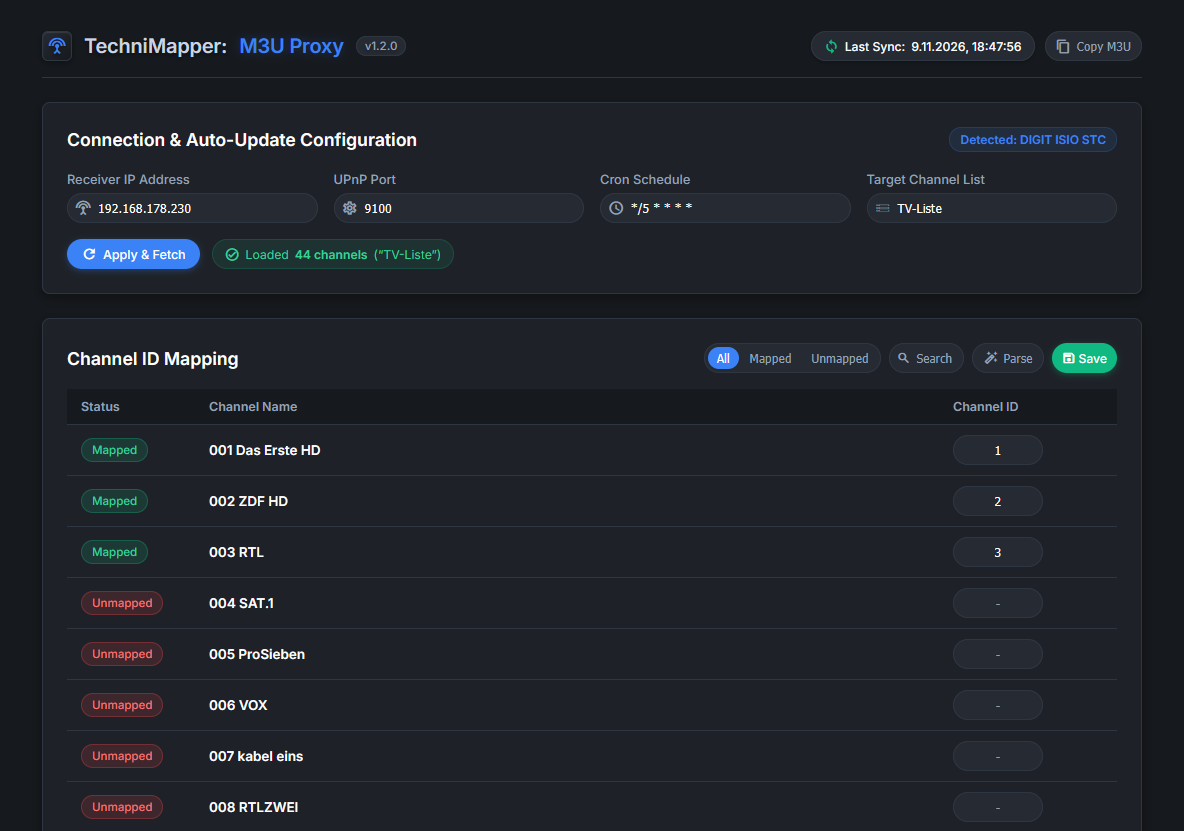
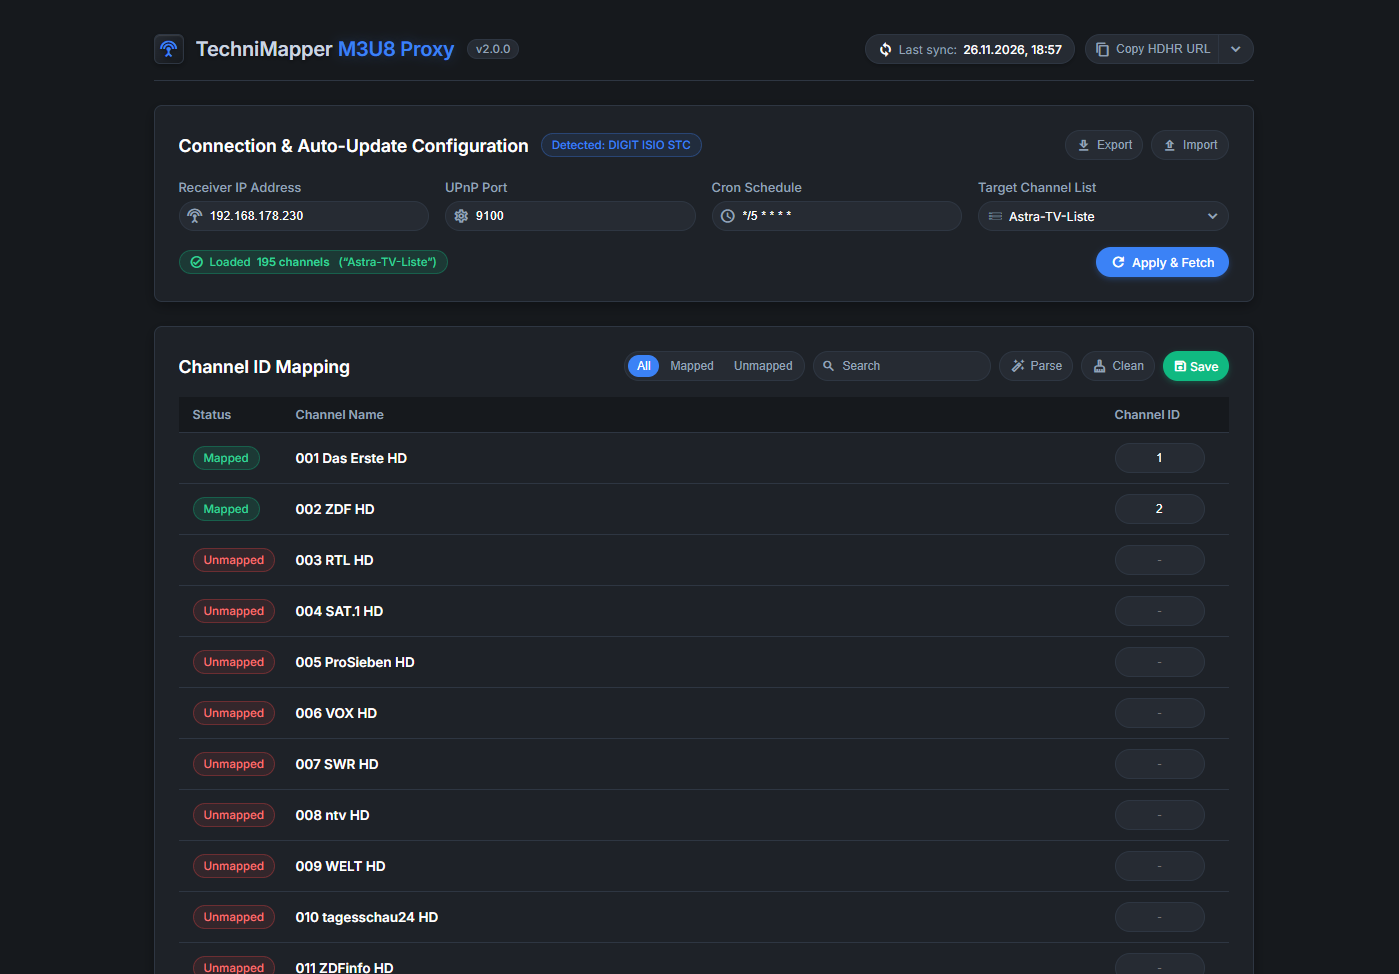
docs: align README, OpenAPI spec and ADRs with 2.0.0

diff --git a/frontend/api.generated.d.ts b/frontend/api.generated.d.ts
@@ -903,42 +903,6 @@ export interface paths {
         patch?: never;
         trace?: never;
     };
-    "/api/docs": {
-        parameters: {
-            query?: never;
-            header?: never;
-            path?: never;
-            cookie?: never;
-        };
-        /** Interactive API documentation (Redoc) */
-        get: {
-            parameters: {
-                query?: never;
-                header?: never;
-                path?: never;
-                cookie?: never;
-            };
-            requestBody?: never;
-            responses: {
-                /** @description HTML page with Redoc UI */
-                200: {
-                    headers: {
-                        [name: string]: unknown;
-                    };
-                    content: {
-                        "text/html": string;
-                    };
-                };
-            };
-        };
-        put?: never;
-        post?: never;
-        delete?: never;
-        options?: never;
-        head?: never;
-        patch?: never;
-        trace?: never;
-    };
 }
 export type webhooks = Record<string, never>;
 export interface components {

diff --git a/test/openapi.test.ts b/test/openapi.test.ts
@@ -38,7 +38,7 @@ const ROUTES_DIR = path.join(root, 'lib', 'routes');
 const SERVER_SRC = fs.readFileSync(path.join(root, 'server.ts'), 'utf8');
 
 test('every route registered in lib/routes or server.ts exists in docs/openapi.yaml', () => {
-    const specRoutes = Object.keys(openapi.paths).filter((p) => !p.startsWith('/api/docs'));
+    const specRoutes = Object.keys(openapi.paths);
     for (const file of fs.readdirSync(ROUTES_DIR)) {
         if (!file.endsWith('.ts')) continue;
         const src = fs.readFileSync(path.join(ROUTES_DIR, file), 'utf8');
@@ -46,8 +46,7 @@ test('every route registered in lib/routes or server.ts exists in docs/openapi.y
             assert.ok(specRoutes.includes(route), `${file}: ${route} missing in openapi.yaml`);
         }
     }
-    // app.use('/hdhr', hdhrRouter) is covered by the hdhrRouter.* registrations above;
-    // /api/docs is documented separately (interactive viewer).
+    // app.use('/hdhr', hdhrRouter) is covered by the hdhrRouter.* registrations above.
 });
 
 test('openapi.yaml statuses match the statuses we assert in app.test.ts', () => {

diff --git a/scripts/coverage.js b/scripts/coverage.js
@@ -17,6 +17,7 @@ const result = spawnSync(
         '--test-coverage-exclude=e2e/**',
         '--test-coverage-exclude=public/**',
         '--test-coverage-exclude=frontend/**',
+        '--test-coverage-exclude=dist/**',
     ],
     {
         stdio: ['ignore', 'pipe', 'pipe'],
@@ -48,7 +49,7 @@ if (!match) {
 }
 
 // Per-module advisory: list lib files below 90% line coverage (non-fatal).
-const fileLines = plain.matchAll(/^ℹ\s+(\S+\.js)\s*\|\s*([\d.]+)\s*\|\s*([\d.]+)\s*\|\s*([\d.]+)/gm);
+const fileLines = plain.matchAll(/^ℹ\s+(\S+\.(?:js|ts))\s*\|\s*([\d.]+)\s*\|\s*([\d.]+)\s*\|\s*([\d.]+)/gm);
 const weak = [];
 for (const m of fileLines) {
     const file = m[1];

diff --git a/README.md b/README.md
@@ -82,7 +82,7 @@ volumes:
     technimapper-data:
 ```
 
-`latest` always points to the newest stable release (pre-releases such as `1.8.0-rc.1` never move `latest`, `1` or `1.7`; use their exact tag to test them). If you need reproducible deployments, pin a version tag instead, e.g. `ghcr.io/danielfranze/technimapper-m3u-proxy:1.7.0`.
+`latest` always points to the newest stable release (pre-releases such as `2.0.0-rc.6` never move `latest`, `2` or `2.0`; use their exact tag to test them). If you need reproducible deployments, pin a version tag instead, e.g. `ghcr.io/danielfranze/technimapper-m3u-proxy:2.0.0`.
 
 The repository also ships a ready-to-use `docker-compose.yml` (builds locally with `build: .`).
 
@@ -140,7 +140,7 @@ Everything related to the receiver (IP, port, cron schedule, channel list, mappi
 | `DATA_DIR`                      | `/app/data` | Directory for `mapping.json`. Must be writable.                                                                                                                                                                  |
 | `REQUEST_TIMEOUT_MS`            | `5000`      | Idle timeout per UPnP request (hard deadline: 3×).                                                                                                                                                               |
 | `MAX_RESPONSE_BYTES`            | `2097152`   | Maximum accepted UPnP response size (2 MiB).                                                                                                                                                                     |
-| `SHUTDOWN_TIMEOUT_MS`           | `30000`     | Hard deadline for graceful shutdown; always at least 3× `REQUEST_TIMEOUT_MS` + 5 s.                                                                                                                              |
+| `SHUTDOWN_TIMEOUT_MS`           | `30000`     | Hard deadline for graceful shutdown; always at least 3× `REQUEST_TIMEOUT_MS` + 1 s.                                                                                                                              |
 | `ALLOW_NON_PRIVATE_IP`          | `false`     | Allow receiver IPs outside RFC1918 (VPN/CGNAT). Loopback and link-local stay blocked.                                                                                                                            |
 | `ALLOW_LOOPBACK_RECEIVER`       | `false`     | Allow a receiver on `127.0.0.1` for local mock testing. Keep disabled in production.                                                                                                                             |
 | `ADMIN_USER` / `ADMIN_PASSWORD` | –           | Enables HTTP Basic Auth for the UI and `/api/*`. Set both; if only one is set, protected routes fail closed with `503`.                                                                                          |
@@ -170,7 +170,8 @@ Everything related to the receiver (IP, port, cron schedule, channel list, mappi
 | `POST /api/save-mapping`                                                                       | Basic Auth¹ | Saves the channel-name → ID mapping.                                                                   |
 | `GET /api/export-config` / `POST /api/import-config`                                           | Basic Auth¹ | Backup and restore of settings and mapping.                                                            |
 | `GET /metrics`                                                                                 | Basic Auth¹ | Prometheus text metrics (`technimapper_*`).                                                            |
-| `GET /api/docs`                                                                                | Basic Auth¹ | Interactive API documentation (Redoc); full spec: [docs/openapi.yaml](docs/openapi.yaml).              |
+
+The full OpenAPI 3 specification is available at [docs/openapi.yaml](docs/openapi.yaml).
 
 ¹ Only enforced if `ADMIN_USER` and `ADMIN_PASSWORD` are set. State-changing `/api/*` requests must use `Content-Type: application/json` and a same-origin `Origin`/`Referer` (when the client sends one); cross-origin attempts are rejected.
 
@@ -286,11 +287,12 @@ npm start              # http://localhost:9191
 
 | Script                                  | Purpose                                                                                                                                               |
 | --------------------------------------- | ----------------------------------------------------------------------------------------------------------------------------------------------------- |
-| `npm run coverage`                      | Backend with V8 coverage, thresholds: lines ≥90 %, branches ≥80 %, functions ≥85 % (`public/` excluded – frontend is reachable without backend build) |
+| `npm run coverage`                      | Backend with V8 coverage, thresholds: lines ≥90 %, branches ≥80 %, functions ≥85 % (generated `dist/`, `public/` and `frontend/` excluded)          |
 | `scripts/probe-receiver.js <ip> [port]` | Inspects a receiver's UPnP/ContentDirectory structure and prints the detected model                                                                   |
+| `scripts/probe-count.js <ip> …`         | Probes a single object with a custom `RequestedCount` (see [scripts/README.md](scripts/README.md))                                                   |
 | `scripts/mock-receiver.js`              | Minimal SOAP mock for manual testing (set `MOCK_RECEIVER_PORT`)                                                                                       |
 
-CI (GitHub Actions) runs type checks, Biome, knip, OpenAPI freshness, unit/integration tests, coverage, `npm audit`, a Trivy image scan and a container smoke test on every push and pull request. Pushing a tag `vX.Y.Z` (matching `package.json`) builds, publishes and signs the release image and creates the GitHub release from the matching `CHANGELOG.md` section (`## [X.Y.Z]`). The tag fails fast if the version or the changelog entry is missing; tags containing a `-` (e.g. `v1.8.0-rc.1`) become pre-releases and do not move the `latest` image tag.
+CI (GitHub Actions) runs type checks, Biome, knip, OpenAPI freshness, unit/integration tests, coverage, `npm audit`, a Trivy image scan and a container smoke test on every push and pull request. Pushing a tag `vX.Y.Z` (matching `package.json`) builds, publishes and signs the release image and creates the GitHub release from the matching `CHANGELOG.md` section (`## [X.Y.Z]`). The tag fails fast if the version or the changelog entry is missing; tags containing a `-` (e.g. `v2.0.0-rc.6`) become pre-releases and do not move the `latest` image tag.
 
 ## Third-party fonts
 

diff --git a/CHANGELOG.md b/CHANGELOG.md
@@ -22,7 +22,7 @@ TechniMapper 2.0 is a modernization release. The feature set is unchanged; the b
 - Docker image builds the frontend in the builder stage and copies the generated assets into the runtime image; release builds bypass the layer cache.
 - CI and release workflows run type checks, Biome, knip, OpenAPI freshness, tests, coverage, E2E, dependency audit and a container smoke test/Trivy scan.
 - Build output (`dist/`, `public/app/js/`) is generated and no longer tracked; `npm run build` starts from a clean state.
-- Tests and test helpers import the TypeScript sources directly (`tsx`) instead of compiled `dist/` output, so knip validates the real source graph without a prior build.
+- Tests and test helpers import the TypeScript sources directly (`tsx`) instead of compiled `dist/` output, so knip validates the real source graph without a prior build; coverage excludes generated `dist/` accordingly.
 - `LOG_FORMAT` defaults to `text` (as documented); set `LOG_FORMAT=json` for structured logs.
 - `GET /api/get-config` was renamed to `GET /api/config` (UI and tests updated).
 
@@ -32,6 +32,7 @@ TechniMapper 2.0 is a modernization release. The feature set is unchanged; the b
 - Frontend race conditions: config and sync state are awaited, sync requests are single-flight, and file import errors are surfaced.
 - UI XSS and M3U injection hardening; SSRF protection for receiver targets.
 - Copy-menu keyboard navigation no longer calls `.filter()` on a `NodeList`.
+- README and OpenAPI spec no longer advertise an unimplemented `/api/docs` Redoc endpoint; the spec now matches the registered routes exactly.
 
 ### Upgrade notes
 

diff --git a/THREAT-MODEL.md b/THREAT-MODEL.md
@@ -18,7 +18,7 @@ receiver, serves a playlist and an HDHomeRun emulator to local clients.
 
 | Threat                                       | Mitigation in 2.0.0                                                                                                                   |
 | -------------------------------------------- | ------------------------------------------------------------------------------------------------------------------------------------- |
-| LAN SSRF/port scan via `/api/fetch-channels` | Receiver target changes go through authenticated `POST /api/save-settings`; sync uses stored settings. Private-IP validation remains. |
+| LAN SSRF/port scan via `/api/fetch-channels` | Receiver target changes go through `POST /api/save-settings` (authenticated when `ADMIN_USER`/`ADMIN_PASSWORD` are configured); sync uses stored settings. Private-IP validation remains. |
 | CSRF on state-changing `/api/*`              | JSON content-type required; same-origin `Origin`/`Referer` guard.                                                                     |
 | Auth brute force                             | Failed auth attempts are throttled before credentials are checked.                                                                    |
 | API abuse                                    | Bounded in-memory rate limiter for all `/api` routes.                                                                                 |

diff --git a/docs/adr/0007-frontend-typescript.md b/docs/adr/0007-frontend-typescript.md
@@ -126,11 +126,10 @@ manual/E2E smoke test for `view`/`presenter`/`main`.
 
 - Update imports in `frontend-mvp.test.ts`, `ui-dirty.test.ts`,
   `ui-format.test.ts`, `ui-copy.test.ts`, `ui-ids.test.ts` to
-  `../frontend/src/...` (`.ts` specifiers, `tsx` runtime).
+  `../frontend/...` (`.ts` specifiers, `tsx` runtime).
 - Add `"lib": ["ES2022", "DOM", "DOM.Iterable"]` to `test/tsconfig.json`;
   a probe against the current suite showed no conflicts with `@types/node`.
-- Source-text tests (`ui-dropdown`, `ui-format`, `ui-copy`) read from
-  `frontend/src/`.
+- Source-text tests (`ui-dropdown`, `ui-format`, `ui-copy`) read from `frontend/`.
 - Replace the `node --check` syntax test with a build-artifact test:
   `public/app/js/main.js` exists, is ESM, and `index.html` references it.
 - E2E: fail the smoke test on `pageerror`; existing UI flows already prove the
@@ -142,8 +141,7 @@ manual/E2E smoke test for `view`/`presenter`/`main`.
   builds both halves.
 - README: new `frontend/` entry, `app/js` as generated output, updated build
   commands.
-- CHANGELOG: one entry (target `2.1.0` if the migration lands after the
-  `2.0.0` release; `2.0.0` if it lands before).
+- CHANGELOG: one entry; the migration landed in `2.0.0`.
 - ADR 0007 → Accepted; ADR 0005 gets a one-line pointer for the frontend part.
 
 ## Consequences

diff --git a/SECURITY.md b/SECURITY.md
@@ -24,7 +24,7 @@ You will get an initial response as soon as possible. Fixes are published as a n
 - Set `ADMIN_USER` / `ADMIN_PASSWORD` and put it behind a TLS-terminating reverse proxy
   (set `TRUST_PROXY` accordingly). Basic Auth over plain HTTP sends credentials unencrypted.
   If only one of the two variables is set, protected routes fail closed with `503`.
-- `/playlist.m3u8`, `/hdhr/*`, `/health` and `/health/live` are intentionally public (media centers such as Plex and Jellyfin, M3U8 clients and container health checks).
+- `/playlist.m3u8`, `/hdhr/*`, `/health`, `/health/live`, `/health/liveness` and `/health/ready` are intentionally public (media centers such as Plex and Jellyfin, M3U8 clients and container health checks).
   The playlist contains the stream URLs of your receiver.
 - Receiver IPs are restricted to private IPv4 ranges (SSRF protection); loopback and link-local
   addresses are rejected by default (loopback can be enabled explicitly for local mock testing).

diff --git a/scripts/README.md b/scripts/README.md
@@ -5,6 +5,9 @@ UPnP/ContentDirectory structure. Useful to capture new receiver generations
 (STC, S, S1, S2, ...) and to verify that the fingerprint logic in
 `lib/receiver.ts` (`detectSSeriesGeneration`) still matches.
 
+Run `npm run build` once before using them: the probes import the compiled
+`dist/lib/receiver.js`.
+
 ## Usage
 
 Probe full structure + detected model:
